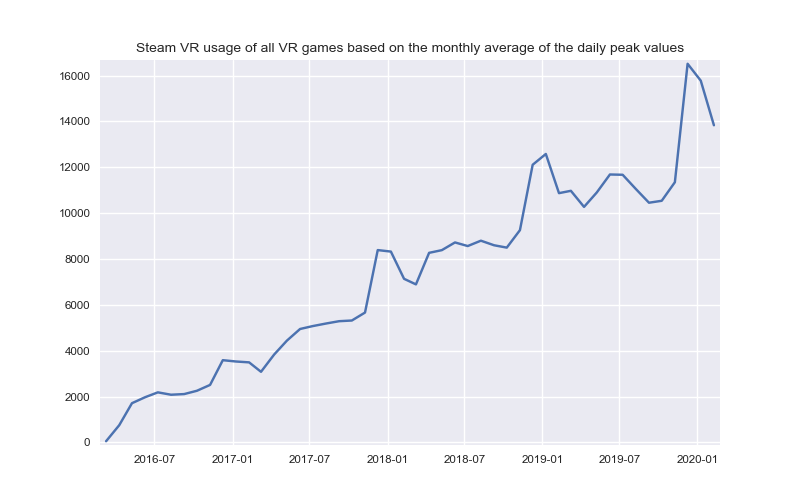
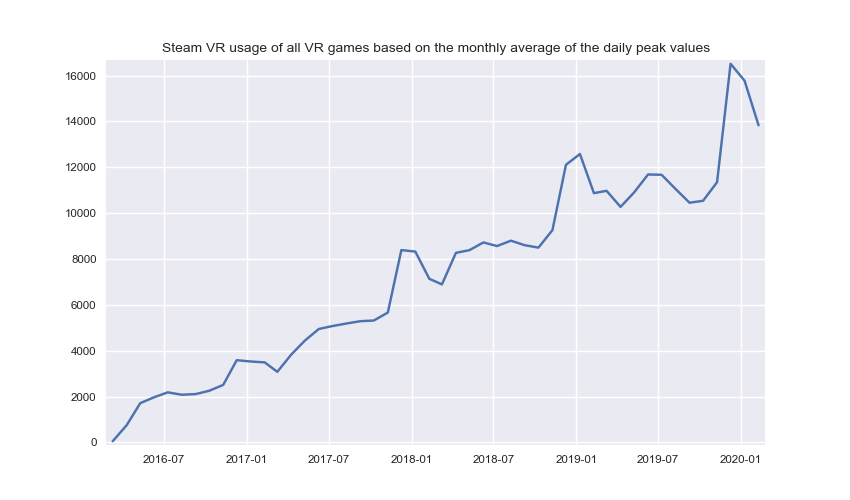
update

diff --git a/src/create_charts.py b/src/create_charts.py
@@ -123,7 +123,7 @@ def main():
     plt.rcParams['axes.xmargin'] = 0.01
     plt.rcParams['axes.ymargin'] = 0.01
     params = {'legend.fontsize': 'small',
-              'figure.figsize': (8, 5),
+              'figure.figsize': (8.5, 5),
               'axes.labelsize': 'small',
               'axes.titlesize': 'medium',
               'xtick.labelsize': 'small',

diff --git a/README.md b/README.md
@@ -1,12 +1,8 @@
 # Steam VR Statistics
 Determines all Steam VR only games and the number of players. The required information was obtained from https://steamdb.info (number of daily players) and www.vrlfg.net (appid of all VR games) with [Python](https://www.python.org/ "Python") using the [Requests](https://requests.readthedocs.io/en/master/# "Requests") and [JSON](https://docs.python.org/3/library/json.html "JSON") library. The information is stored in a [SQLite](https://www.sqlite.org/index.html "SQLite") database and evaluated with [Matplotlib](https://matplotlib.org/3.1.1/index.html# "Matplotlib") and [Seaborn](https://seaborn.pydata.org/# "Seaborn"). The database I have created with over 1.6 million records is available to everyone and can be used for all kinds of statistics and forecasts.
 <p align="left">
-  <img width="800" height="500" src="https://github.com/Bamux/Steam_VR_Statistics/blob/master/images/top10_2020.png">
-</p>
-<p align="left">
-  <img width="800" height="500" src="https://github.com/Bamux/Steam_VR_Statistics/blob/master/images/avg_peak_over_time.png">
-</p>
-<p align="left">
-  <img width="800" height="500" src="https://github.com/Bamux/Steam_VR_Statistics/blob/master/images/max_peak.png">
+  <img width="850" height="500" src="https://github.com/Bamux/Steam_VR_Statistics/blob/master/images/top10_2020.png">
+  <img width="850" height="500" src="https://github.com/Bamux/Steam_VR_Statistics/blob/master/images/avg_peak_over_time.png">
+  <img width="850" height="500" src="https://github.com/Bamux/Steam_VR_Statistics/blob/master/images/max_peak.png">
 </p>
 
